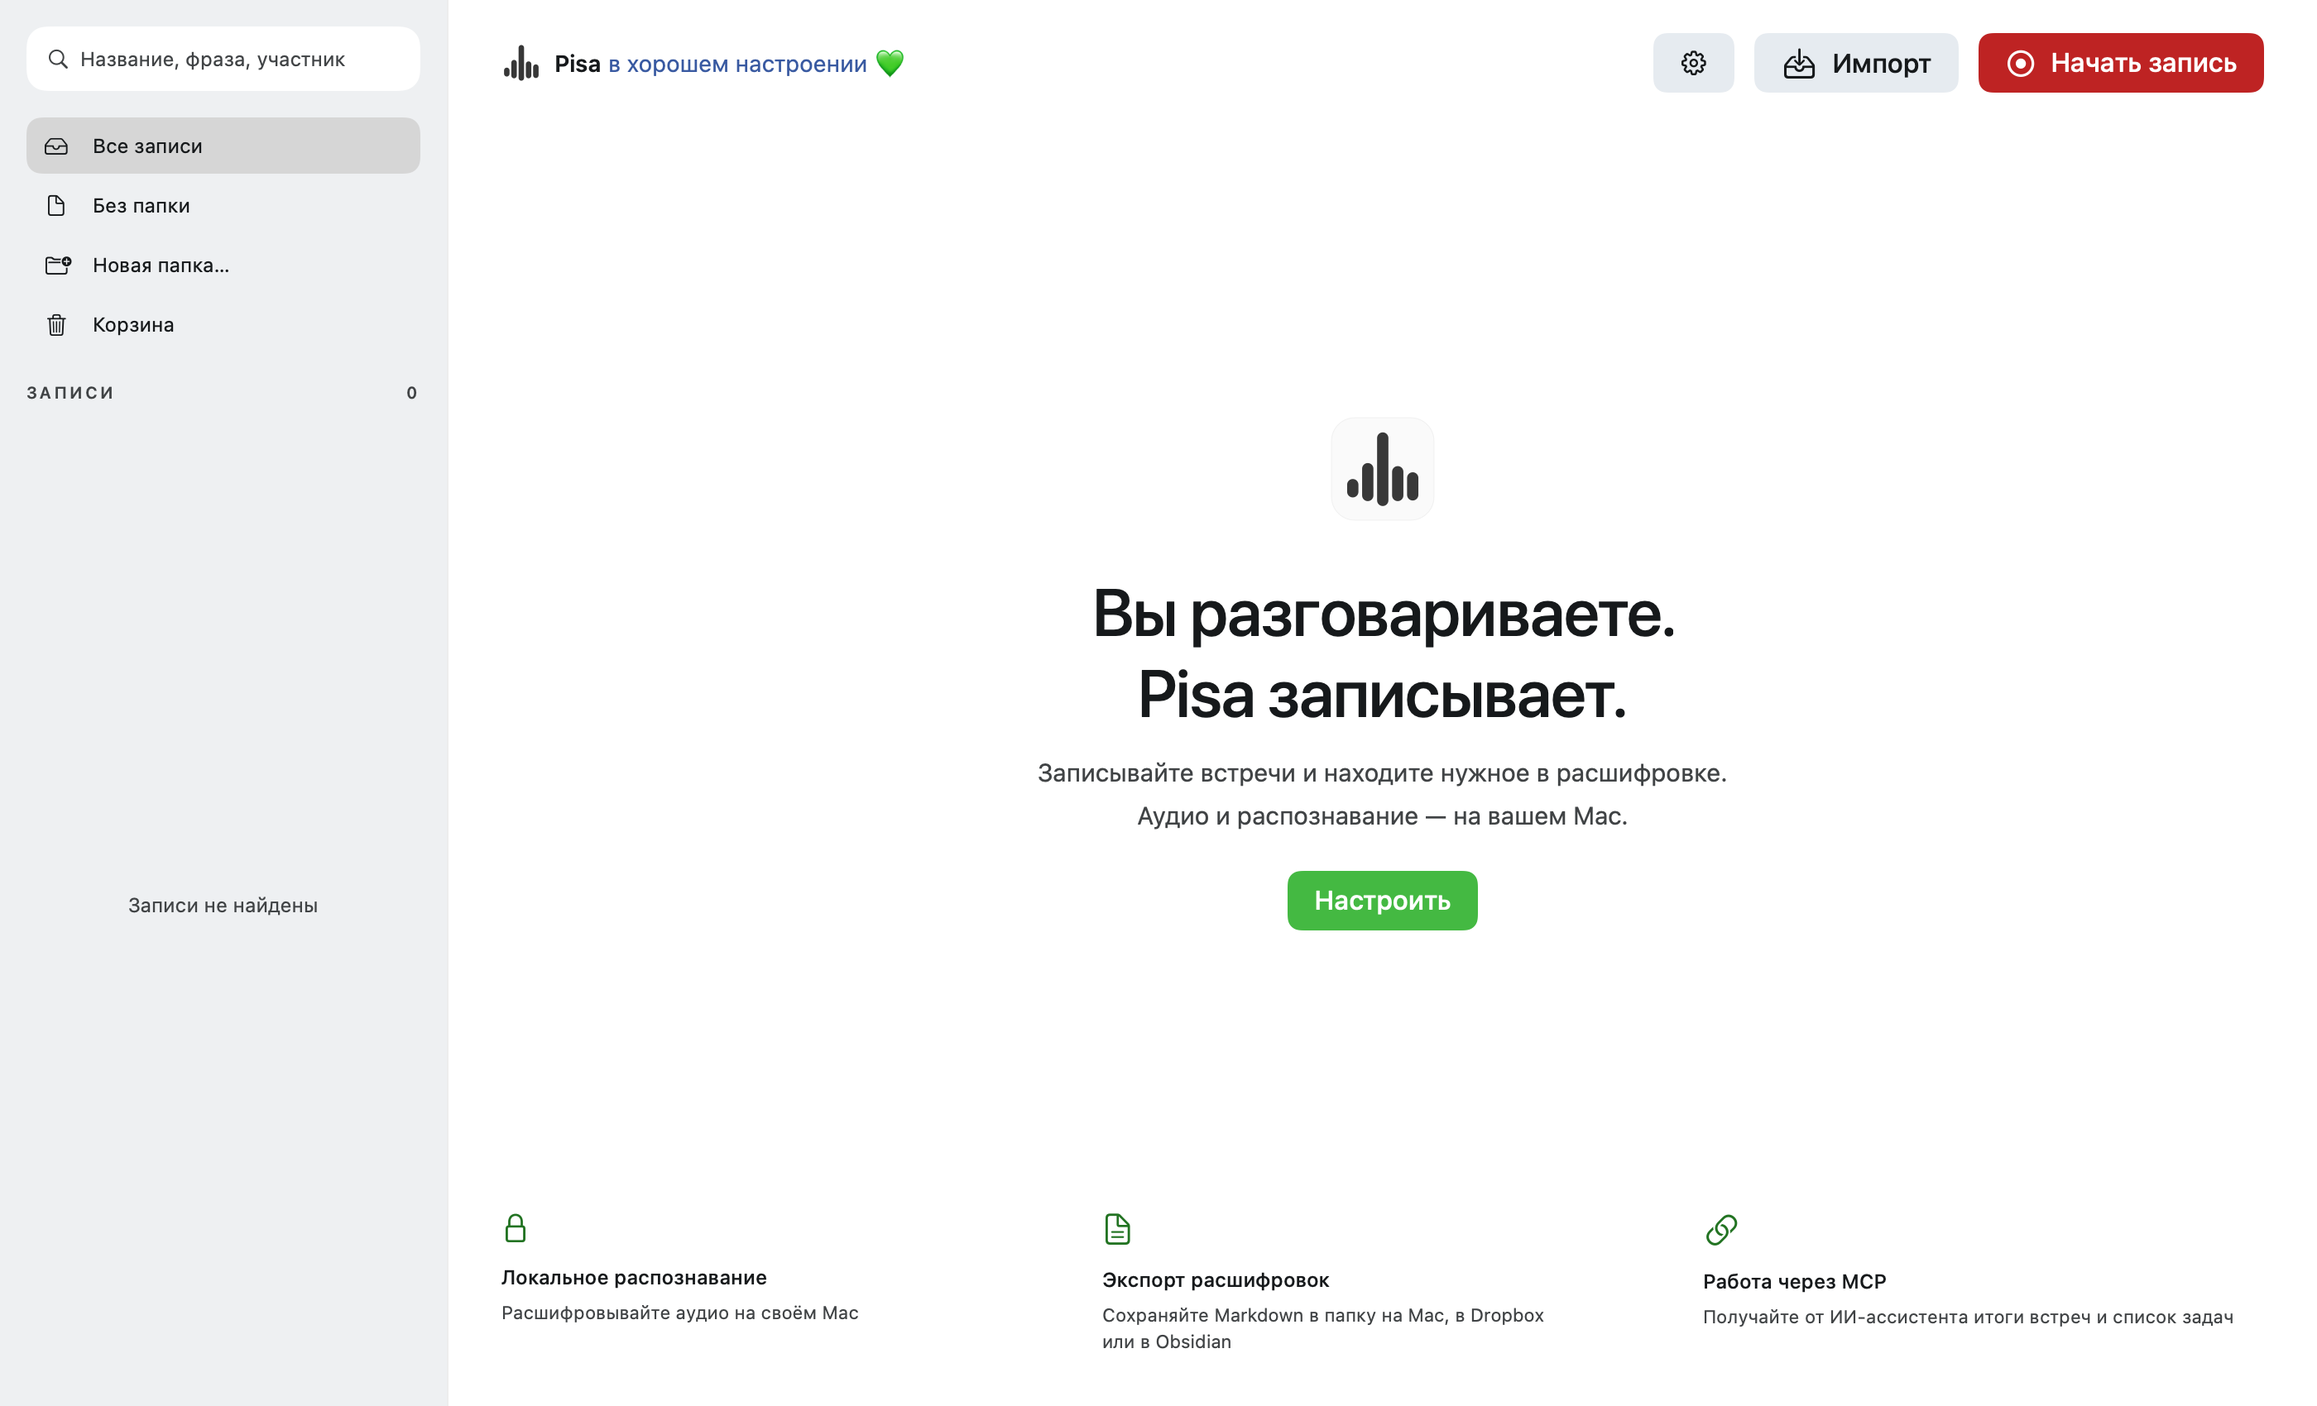
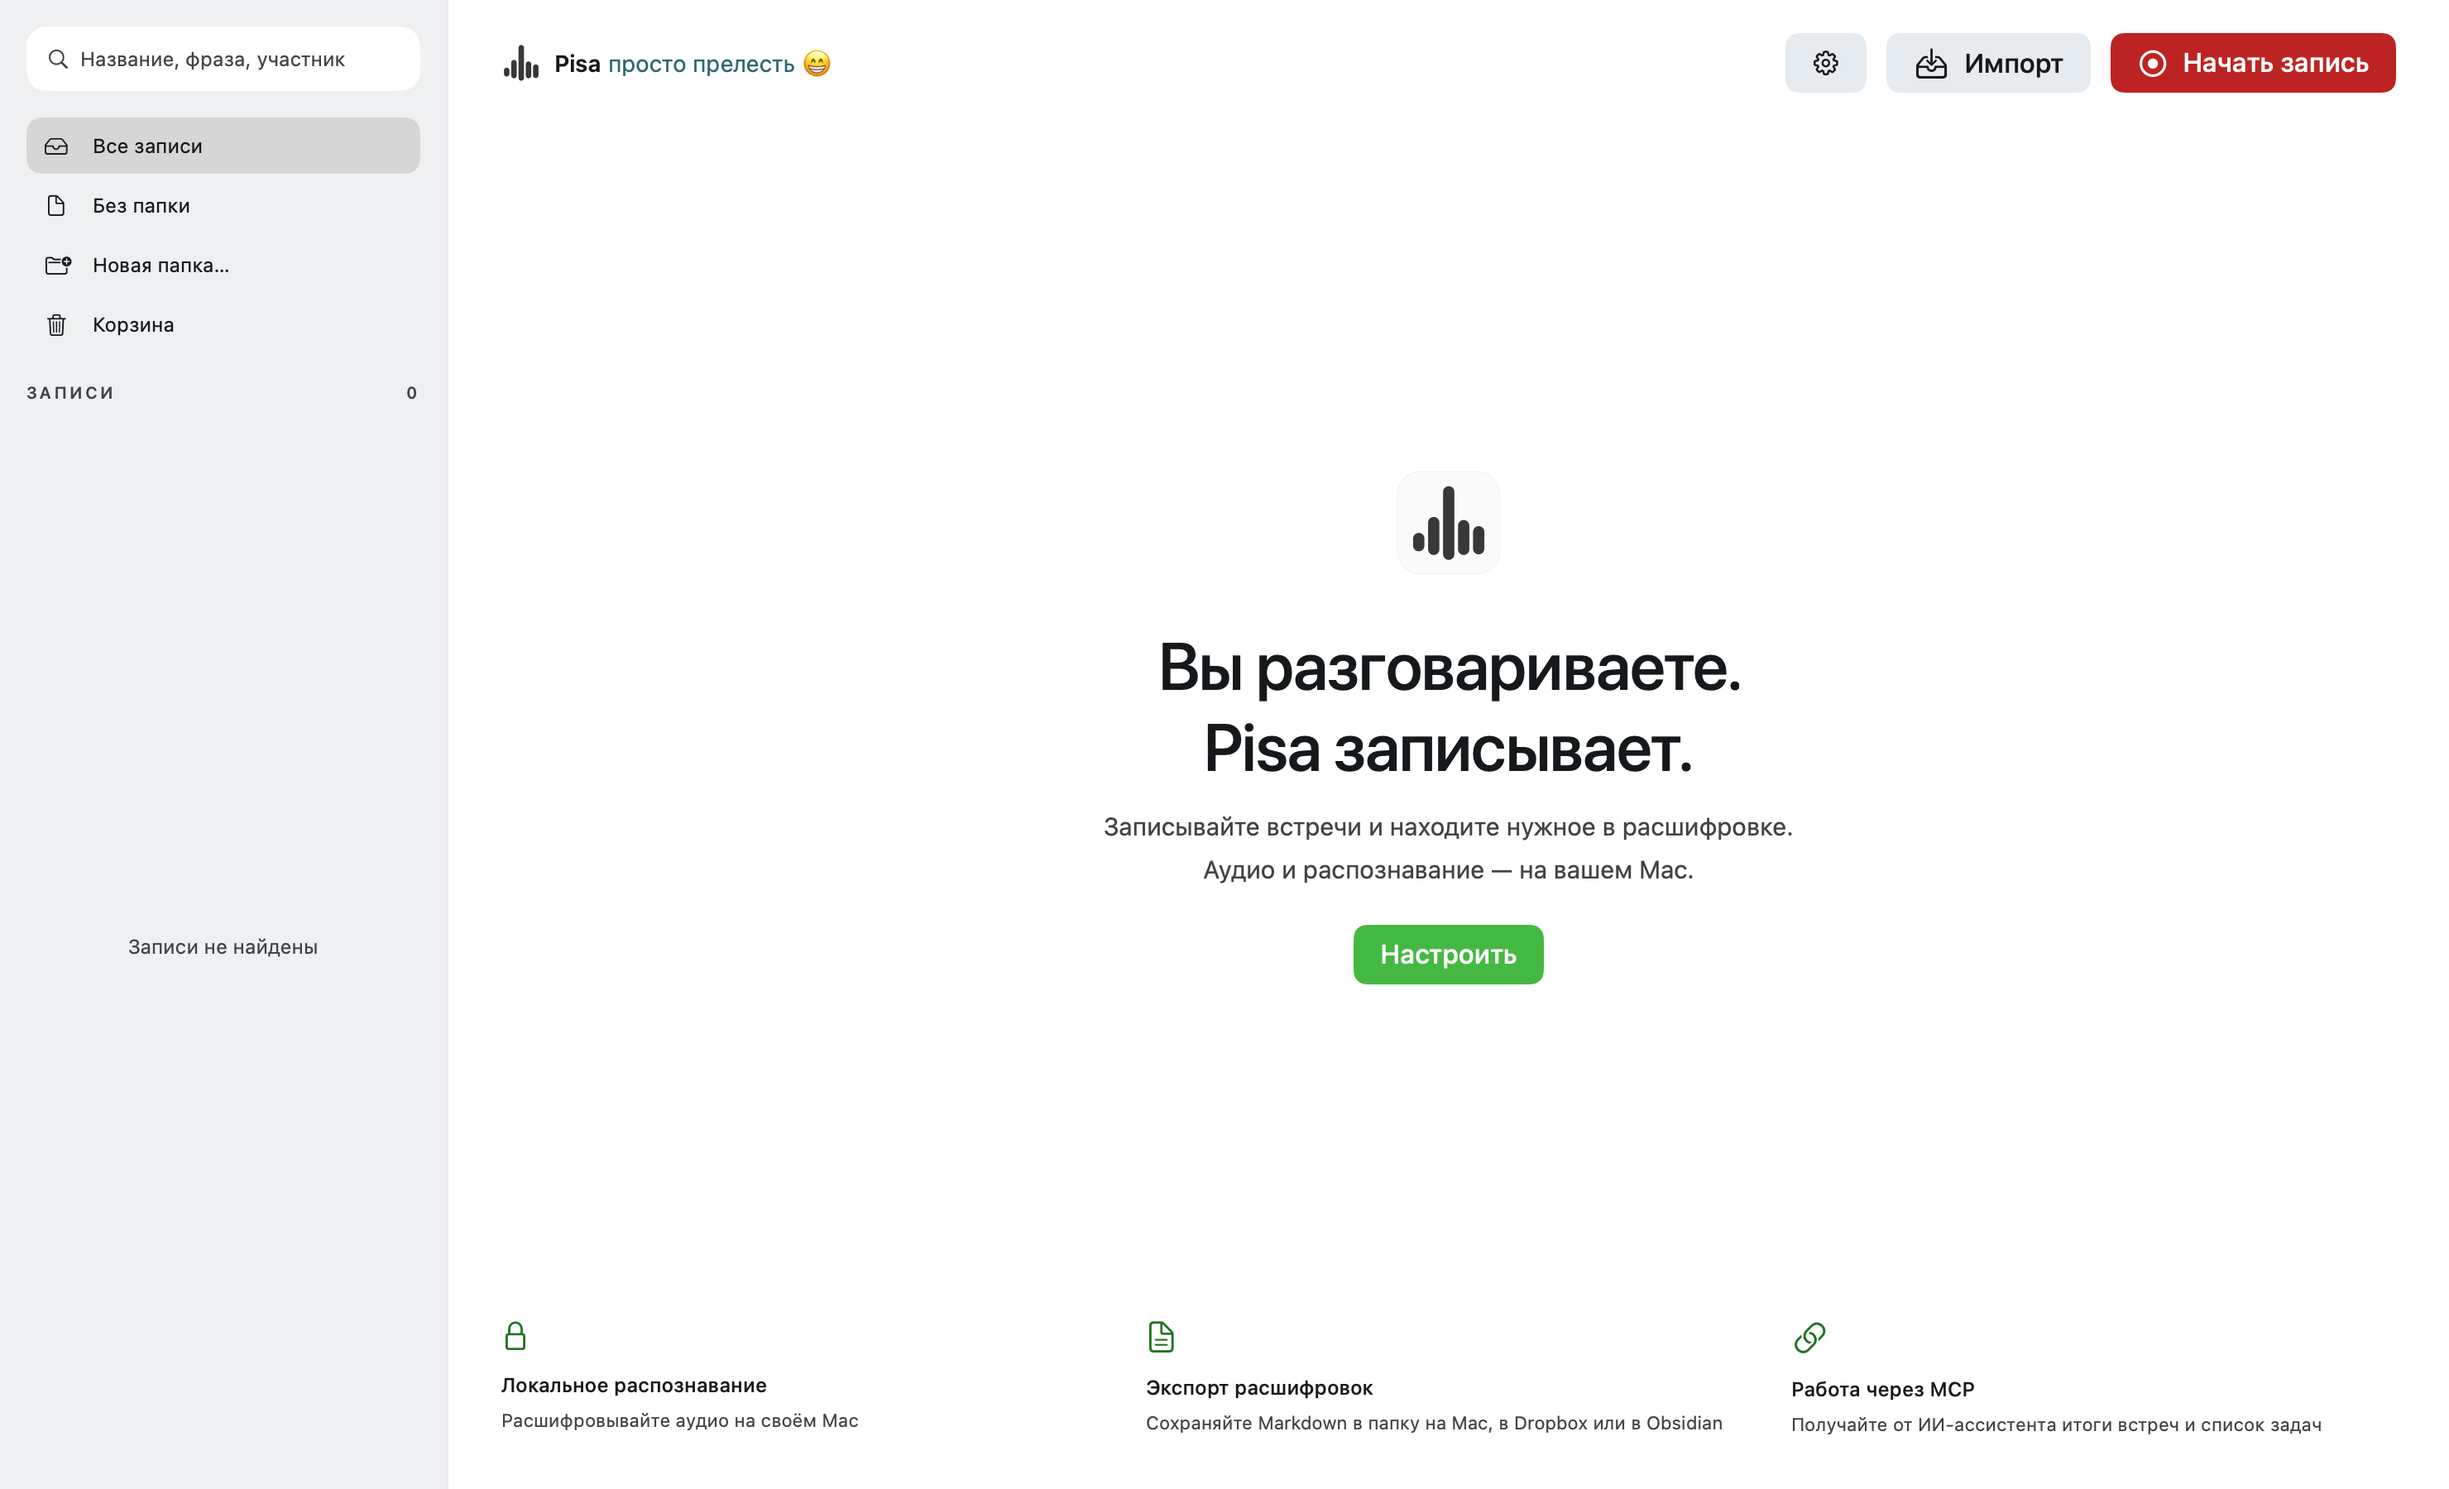
Refresh screenshots with strategy satire and natural meeting times

diff --git a/website/dist/index.html b/website/dist/index.html
@@ -25,7 +25,7 @@
       <p class="hero-copy"><span>Записывает встречи и расшифровывает их на Mac.</span><span>Подключайте через MCP любимый AI‑инструмент с локальной или облачной моделью и спрашивайте его о встречах.</span></p>
       <div class="hero-actions"><a class="button" href="#install-guide" data-analytics-location="hero">Попробовать Pisa <span aria-hidden="true">↓</span></a></div>
       <p class="fine-print">Mac с Apple Silicon · macOS 15 и новее</p>
-      <div class="hero-product"><div class="product-caption"><span>ЗАПИСАЛА</span><span>НЕ ЗАБЫЛА</span></div><img src="assets/meeting.png" alt="Вымышленная встреча «95% к пятнице» в Pisa с пятью участниками и расшифровкой"></div>
+      <div class="hero-product"><div class="product-caption"><span>ЗАПИСАЛА</span><span>НЕ ЗАБЫЛА</span></div><img src="assets/meeting.png" alt="Вымышленная встреча «Новая стратегия на старых слайдах» в Pisa с пятью участниками и расшифровкой"></div>
     </section>
     <section class="features wrap" id="features" aria-label="Возможности Pisa">
       <div class="section-label">ЧТО УМЕЕТ</div>

diff --git a/Sources/Pisa/LibrarySidebar.swift b/Sources/Pisa/LibrarySidebar.swift
@@ -48,7 +48,7 @@ struct LibrarySidebar: View {
                                 .textStyle(PisaDesign.Typography.caption)
                         } else {
                             screenText(meeting.title).textStyle(PisaDesign.Typography.captionMedium)
-                                .lineLimit(1).truncationMode(.tail).screenHelp(meeting.title)
+                                .lineLimit(2).truncationMode(.tail).screenHelp(meeting.title)
                         }
                         HStack(spacing: PisaDesign.Spacing.none) {
                             HStack(spacing: PisaDesign.Spacing.inline) {

diff --git a/Sources/Pisa/InterfaceLayoutTests.swift b/Sources/Pisa/InterfaceLayoutTests.swift
@@ -108,7 +108,7 @@ enum InterfaceLayoutTests {
         let host = LayoutHost(MainView().environmentObject(state)
             .environment(\.websiteScreenshotParticipantOrder, participantOrder)
             .environment(\.showsControlKeyboardFocus, false),
-            size: CGSize(width: 1400, height: 850), scale: 1)
+            size: CGSize(width: 1480, height: 900), scale: 1)
         defer { host.close() }
         guard host.wait(for: { host.frames[.welcomeTitle]?.isEmpty == false }) else {
             throw PisaError.message("Главный экран не отобразился")
